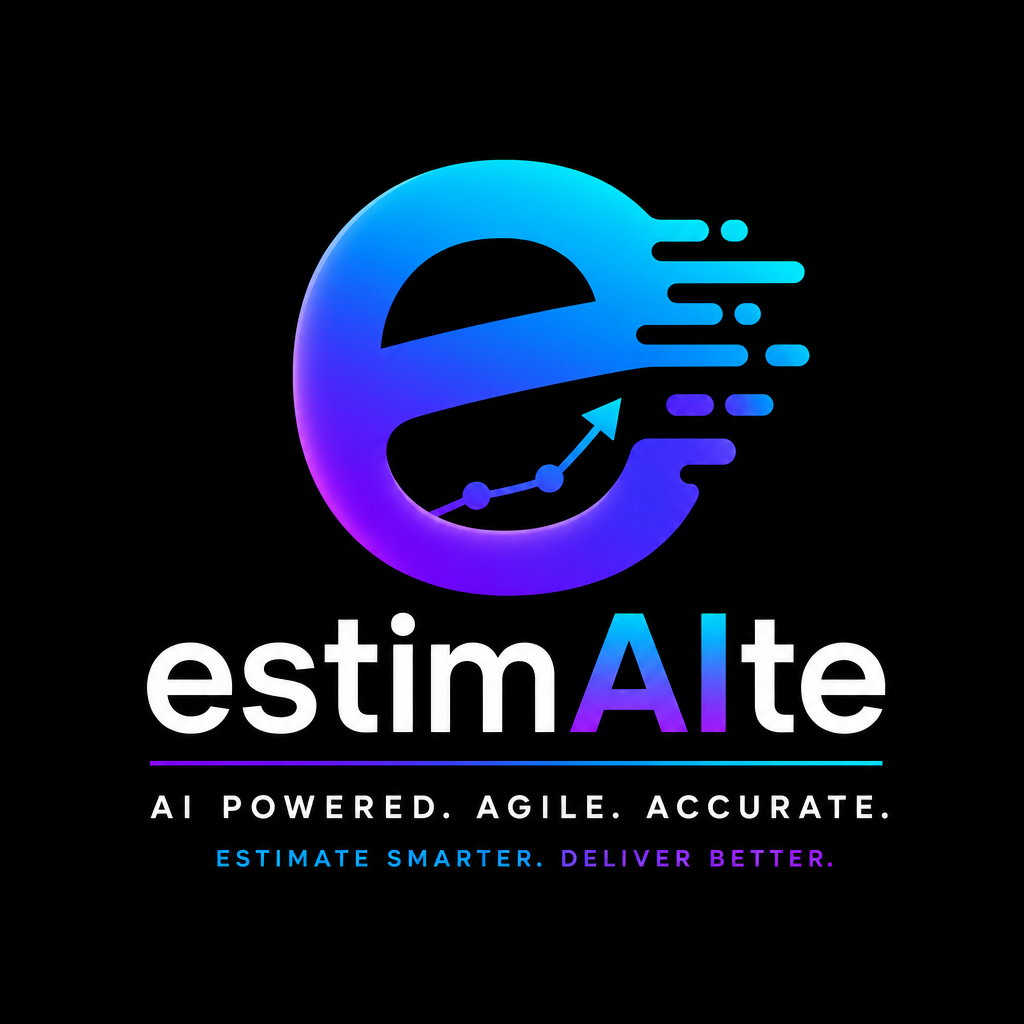
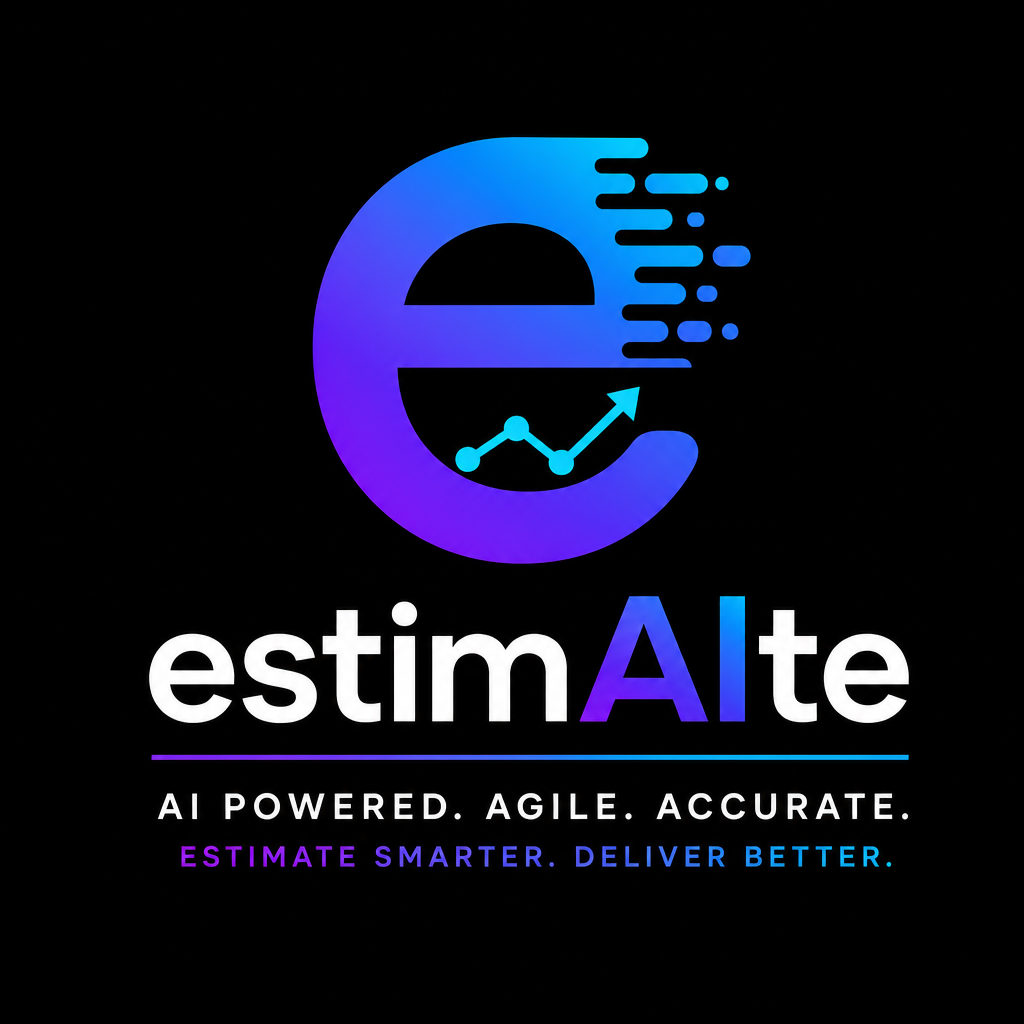
Use the light and dark estimAIte lockup images.
White lockup (with robot and target lines) on header, login, and nav.
Black lockup on the landing footer. No redrawn SVG mark.

Changed region(s): [[0.125, 0.125, 0.9062, 0.8438]]

diff --git a/src/components/brand/EstimAIteLogo.tsx b/src/components/brand/EstimAIteLogo.tsx
@@ -1,159 +1,19 @@
-import { useId } from "react";
+type LogoTone = "light" | "dark";
 
-const CYAN = "#22D3EE";
-const BLUE = "#3B82F6";
-const PURPLE = "#7C3AED";
-const NAVY = "#0F172A";
+const SRC: Record<LogoTone, string> = {
+  light: "/brand/estimaite-lockup-light.png",
+  dark: "/brand/estimaite-lockup-dark.png",
+};
 
-export function EstimAIteMark({
-  className = "h-12 w-12",
-  title = "estimAIte",
-}: {
-  className?: string;
-  title?: string;
-}) {
-  const id = useId().replace(/:/g, "");
-  const g = `estimaite-g-${id}`;
-  return (
-    <svg viewBox="0 0 128 112" className={className} role="img" aria-label={title}>
-      <title>{title}</title>
-      <defs>
-        <linearGradient id={g} x1="18" y1="8" x2="86" y2="104" gradientUnits="userSpaceOnUse">
-          <stop offset="0%" stopColor={CYAN} />
-          <stop offset="48%" stopColor={BLUE} />
-          <stop offset="100%" stopColor={PURPLE} />
-        </linearGradient>
-      </defs>
-      {/* Lowercase e loop */}
-      <path
-        d="M108 54H38C38 32 54 16 76 16c22 0 36 14 38 32"
-        fill="none"
-        stroke={`url(#${g})`}
-        strokeWidth="14"
-        strokeLinecap="round"
-      />
-      <path
-        d="M38 54c0 24 18 42 40 42 16 0 30-10 36-24"
-        fill="none"
-        stroke={`url(#${g})`}
-        strokeWidth="14"
-        strokeLinecap="round"
-      />
-      {/* Crossbar of the e, flowing into motion bars */}
-      <path
-        d="M36 54h86"
-        fill="none"
-        stroke={`url(#${g})`}
-        strokeWidth="13"
-        strokeLinecap="round"
-      />
-      <path d="M96 28h22" stroke={`url(#${g})`} strokeWidth="11" strokeLinecap="round" />
-      <path d="M102 40h16" stroke={`url(#${g})`} strokeWidth="10" strokeLinecap="round" />
-      <path d="M108 68h14" stroke={`url(#${g})`} strokeWidth="10" strokeLinecap="round" />
-      <path d="M100 81h18" stroke={`url(#${g})`} strokeWidth="10" strokeLinecap="round" />
-      {/* Growth chart in the counter */}
-      <polyline
-        points="50,78 60,72 72,62 84,52"
-        fill="none"
-        stroke={`url(#${g})`}
-        strokeWidth="3.2"
-        strokeLinecap="round"
-        strokeLinejoin="round"
-      />
-      <circle cx="50" cy="78" r="3.2" fill={`url(#${g})`} />
-      <circle cx="60" cy="72" r="3.2" fill={`url(#${g})`} />
-      <circle cx="72" cy="62" r="3.2" fill={`url(#${g})`} />
-      <path d="M80 56l8-10 1 9-8 2z" fill={`url(#${g})`} />
-    </svg>
-  );
-}
-
-export function EstimAIteWordmark({
-  onDark = false,
-  className = "",
-}: {
-  onDark?: boolean;
-  className?: string;
-}) {
-  const ink = onDark ? "#F8FAFC" : NAVY;
-  return (
-    <span className={`inline-flex items-baseline font-semibold tracking-tight ${className}`}>
-      <span style={{ color: ink }}>estim</span>
-      <span
-        className="bg-clip-text text-transparent"
-        style={{ backgroundImage: `linear-gradient(135deg, ${CYAN}, ${BLUE}, ${PURPLE})` }}
-      >
-        AI
-      </span>
-      <span style={{ color: ink }}>te</span>
-    </span>
-  );
-}
+const ALT =
+  "estimAIte — AI powered. Agile. Accurate. Estimate smarter. Deliver better.";
 
 export function EstimAIteLogo({
-  variant = "lockup",
-  onDark = false,
-  className = "",
+  tone = "light",
+  className = "h-20 w-auto object-contain",
 }: {
-  variant?: "mark" | "nav" | "lockup" | "full" | "stacked";
-  onDark?: boolean;
+  tone?: LogoTone;
   className?: string;
 }) {
-  const ink = onDark ? "text-slate-100" : "text-slate-900";
-  if (variant === "mark") {
-    return <EstimAIteMark className={className || "h-11 w-12"} />;
-  }
-  if (variant === "stacked") {
-    return (
-      <div className={`flex flex-col items-center text-center ${className}`}>
-        <EstimAIteMark className="h-28 w-32" />
-        <EstimAIteWordmark onDark className="mt-5 text-4xl sm:text-5xl" />
-        <span
-          className="mt-4 h-px w-48"
-          style={{ backgroundImage: `linear-gradient(90deg, ${PURPLE}, ${CYAN})` }}
-        />
-        <p className="mt-3 text-[0.7rem] font-semibold uppercase tracking-[0.22em] text-white">
-          AI powered. Agile. Accurate.
-        </p>
-        <p
-          className="mt-3 bg-clip-text text-[0.65rem] font-semibold uppercase tracking-[0.16em] text-transparent"
-          style={{ backgroundImage: `linear-gradient(90deg, ${CYAN}, ${BLUE}, ${PURPLE})` }}
-        >
-          Estimate smarter. Deliver better.
-        </p>
-      </div>
-    );
-  }
-  return (
-    <div className={`flex items-center gap-3 ${className}`}>
-      <EstimAIteMark className={variant === "full" ? "h-16 w-[4.6rem]" : "h-11 w-12"} />
-      <div className="min-w-0">
-        <EstimAIteWordmark onDark={onDark} className={variant === "full" ? "text-3xl" : "text-xl"} />
-        {variant === "nav" ? null : variant === "full" ? (
-          <>
-            <p className={`mt-1 flex items-center gap-2 text-[0.62rem] font-semibold uppercase tracking-[0.18em] ${ink}`}>
-              <span
-                className="h-px w-8"
-                style={{ backgroundImage: `linear-gradient(90deg, ${CYAN}, ${PURPLE})` }}
-              />
-              AI powered. Agile. Accurate.
-              <span
-                className="h-px w-8"
-                style={{ backgroundImage: `linear-gradient(90deg, ${CYAN}, ${PURPLE})` }}
-              />
-            </p>
-            <p className="mt-2 flex flex-wrap items-center gap-2 text-[0.62rem] font-semibold uppercase tracking-[0.14em]">
-              <span className="text-sky-500">Estimate smarter.</span>
-              <span className={onDark ? "text-white/30" : "text-slate-300"}>|</span>
-              <span className="text-violet-600">Deliver better.</span>
-            </p>
-          </>
-        ) : (
-          <p className={`text-[0.62rem] font-semibold uppercase tracking-[0.16em] ${onDark ? "text-white/55" : "text-slate-500"}`}>
-            AI powered. Agile. Accurate.
-          </p>
-        )}
-      </div>
-    </div>
-  );
+  return <img src={SRC[tone]} alt={ALT} className={className} />;
 }

diff --git a/src/components/LandingPage.tsx b/src/components/LandingPage.tsx
@@ -112,7 +112,7 @@ export function LandingPage() {
       <header className="sticky top-0 z-20 border-b border-[#eadfce]/80 bg-[var(--landing-cream)]/90 backdrop-blur">
         <div className="mx-auto flex max-w-6xl items-center justify-between gap-4 px-6 py-4">
           <Link href="/" aria-label="estimAIte home">
-            <EstimAIteLogo variant="lockup" />
+            <EstimAIteLogo tone="light" className="h-24 w-auto object-contain sm:h-28" />
           </Link>
           <nav className="hidden items-center gap-7 text-[0.72rem] font-semibold uppercase tracking-[0.16em] text-[var(--landing-navy)] md:flex">
             <a href="#product">Product</a>
@@ -326,11 +326,7 @@ export function LandingPage() {
             </Link>
           </div>
           <div className="mt-16 flex justify-center">
-            <img
-              src="/brand/estimaite-lockup-dark.png"
-              alt="estimAIte — AI powered. Agile. Accurate. Estimate smarter. Deliver better."
-              className="h-auto w-full max-w-[28rem]"
-            />
+            <EstimAIteLogo tone="dark" className="h-auto w-full max-w-[28rem] object-contain" />
           </div>
           <div className="mt-12 flex flex-wrap items-center justify-between gap-6 border-t border-white/10 pt-6 text-xs text-white/45">
             <div className="flex flex-wrap gap-4">

diff --git a/src/app/login/page.tsx b/src/app/login/page.tsx
@@ -50,7 +50,7 @@ export default async function LoginPage({
     <main className="flex min-h-screen items-center justify-center px-6">
       <div className="card w-full max-w-md p-8">
         <Link href="/" className="inline-block">
-          <EstimAIteLogo variant="lockup" />
+          <EstimAIteLogo tone="light" className="h-auto w-full max-w-[14rem] object-contain" />
         </Link>
         <h1 className="mt-5 font-display text-2xl font-semibold text-[var(--navy)]">Sign in</h1>
         <p className="mt-2 text-sm text-[var(--muted)]">

diff --git a/src/components/nav/SideNav.tsx b/src/components/nav/SideNav.tsx
@@ -151,7 +151,7 @@ export function SideNav({
 function Brand() {
   return (
     <Link href="/home" className="block px-1">
-      <EstimAIteLogo variant="nav" />
+      <EstimAIteLogo tone="light" className="h-auto w-full max-w-[11rem] object-contain" />
     </Link>
   );
 }
